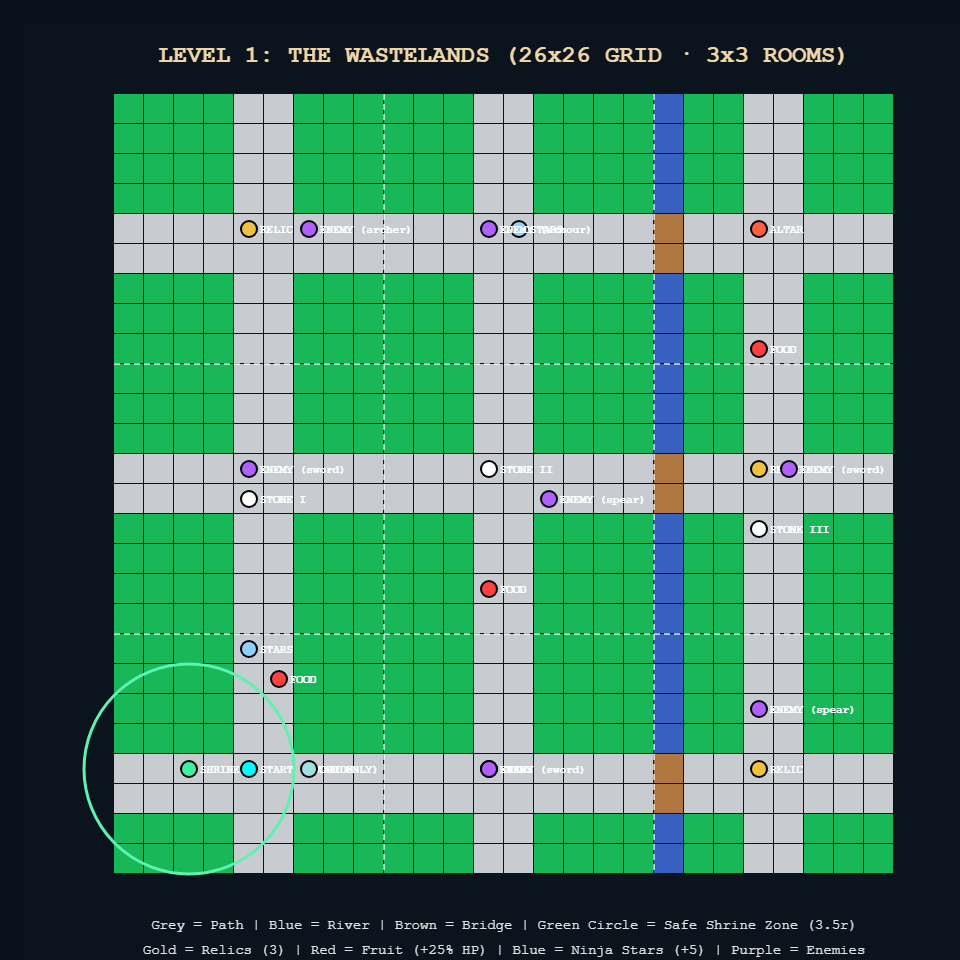
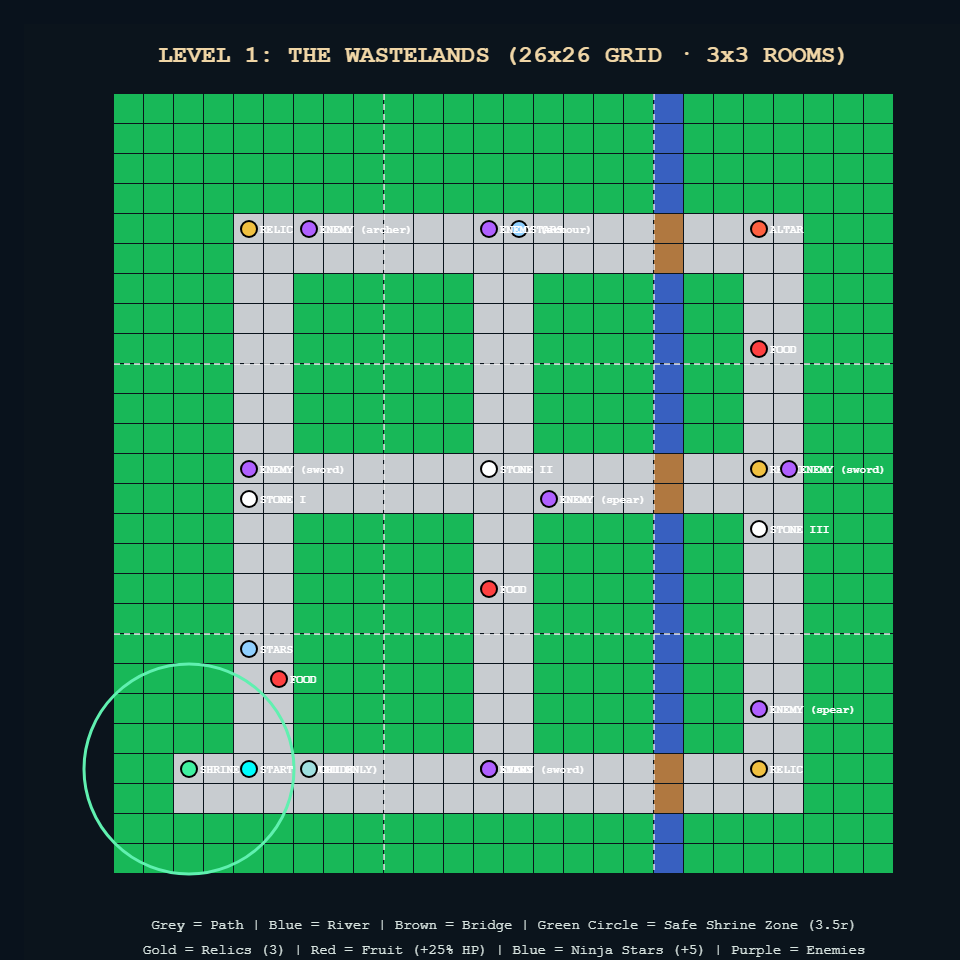
Remove dead-end outer-edge paths and update Level 1 map

diff --git a/threejs-game.js b/threejs-game.js
@@ -254,10 +254,11 @@ function buildRoom(rx, ry) {
       const tVal = game.map.tiles[z][x];
       if (tVal === 4 || tVal === 1 || tVal === 3) {
         addTile(x, z, tVal);
-        if (x === minX) for (let k = 1; k <= 14; k++) addTile(x - k, z, tVal);
-        if (x === maxX - 1) for (let k = 1; k <= 14; k++) addTile(x + k, z, tVal);
-        if (z === minY) for (let k = 1; k <= 14; k++) addTile(x, z - k, tVal);
-        if (z === maxY - 1) for (let k = 1; k <= 14; k++) addTile(x, z + k, tVal);
+        const canExt = (nx, nz) => tVal === 1 || (nx >= 0 && nx < 26 && nz >= 0 && nz < 26 && game.map.tiles[nz][nx] === tVal);
+        if (x === minX && (tVal === 1 || (rx > 0 && canExt(x - 1, z)))) for (let k = 1; k <= 14; k++) addTile(x - k, z, tVal);
+        if (x === maxX - 1 && (tVal === 1 || (rx < 2 && canExt(x + 1, z)))) for (let k = 1; k <= 14; k++) addTile(x + k, z, tVal);
+        if (z === minY && (tVal === 1 || (ry > 0 && canExt(x, z - 1)))) for (let k = 1; k <= 14; k++) addTile(x, z - k, tVal);
+        if (z === maxY - 1 && (tVal === 1 || (ry < 2 && canExt(x, z + 1)))) for (let k = 1; k <= 14; k++) addTile(x, z + k, tVal);
       }
     }
   }
@@ -277,7 +278,7 @@ function buildRoom(rx, ry) {
     for (let x = minX - 4; x < maxX + 4; x++) {
       const gx = Math.max(0, Math.min(25, x)), gz = Math.max(0, Math.min(25, z));
       const tileHere = game.map.tiles[gz][gx];
-      const onRoadLine = [4, 5, 12, 13, 22, 23].includes(z) || [4, 5, 12, 13, 21, 22, 18].includes(x);
+      const onRoadLine = (game.map.tiles[gz]?.[gx] === 4 || game.map.tiles[gz]?.[gx] === 1 || game.map.tiles[gz]?.[gx] === 3);
       if (tileHere !== 0 || onRoadLine) continue;
 
       const hash = Math.abs((x * 73 + z * 139 + rx * 17 + ry * 31) % 100);

diff --git a/core.js b/core.js
@@ -17,9 +17,10 @@ function createMap(index){
  if(index===5){
   const tiles=Array.from({length:SIZE},(_,y)=>Array.from({length:SIZE},(_,x)=>0));
   const props=[];
-  // 3x3 grid of 9x9 rooms with continuous edge-to-edge grey isometric paths (tile 4)
-  for(let x=0;x<SIZE;x++){for(const y of [4,5,12,13,22,23])tiles[y][x]=4;}
-  for(let y=0;y<SIZE;y++){for(const x of [4,5,12,13,21,22])tiles[y][x]=4;}
+  // 3x3 grid of 9x9 rooms connected internally; NO paths lead off the outer world edges
+  for(let x=2;x<=22;x++){for(const y of [22,23])tiles[y][x]=4;}
+  for(let x=4;x<=22;x++){for(const y of [4,5,12,13])tiles[y][x]=4;}
+  for(let y=4;y<=23;y++){for(const x of [4,5,12,13,21,22])tiles[y][x]=4;}
   // River at x=18 with wooden/stone bridges (tile 3) where paths cross
   for(let y=0;y<SIZE;y++)tiles[y][18]=(y===4||y===5||y===12||y===13||y===22||y===23)?3:1;
   // Place boulders and C64 pixel trees strictly on the grass off-path
